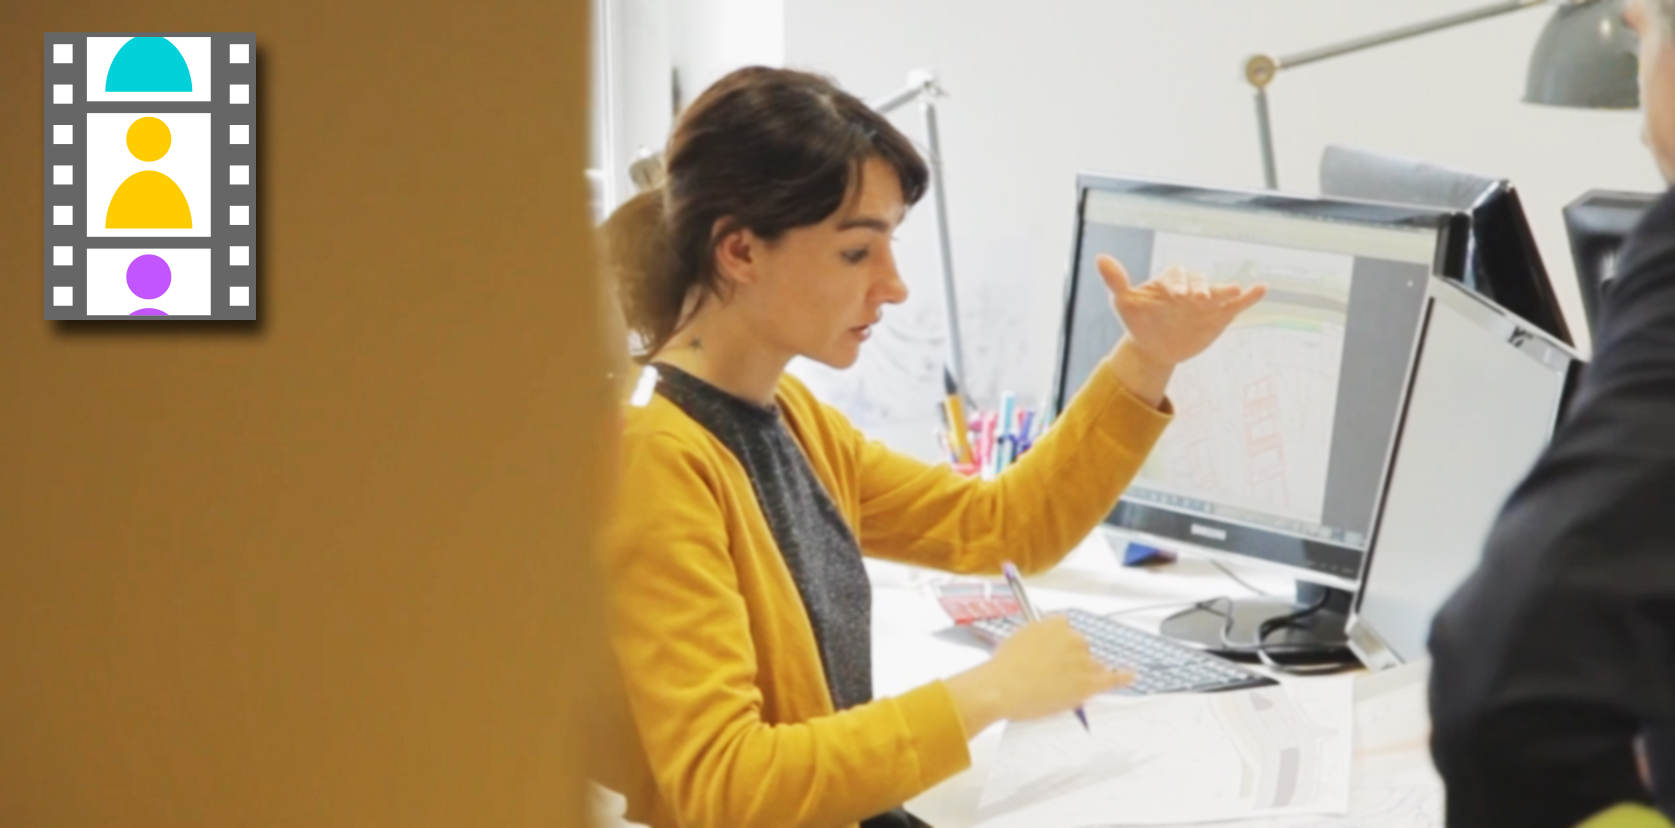
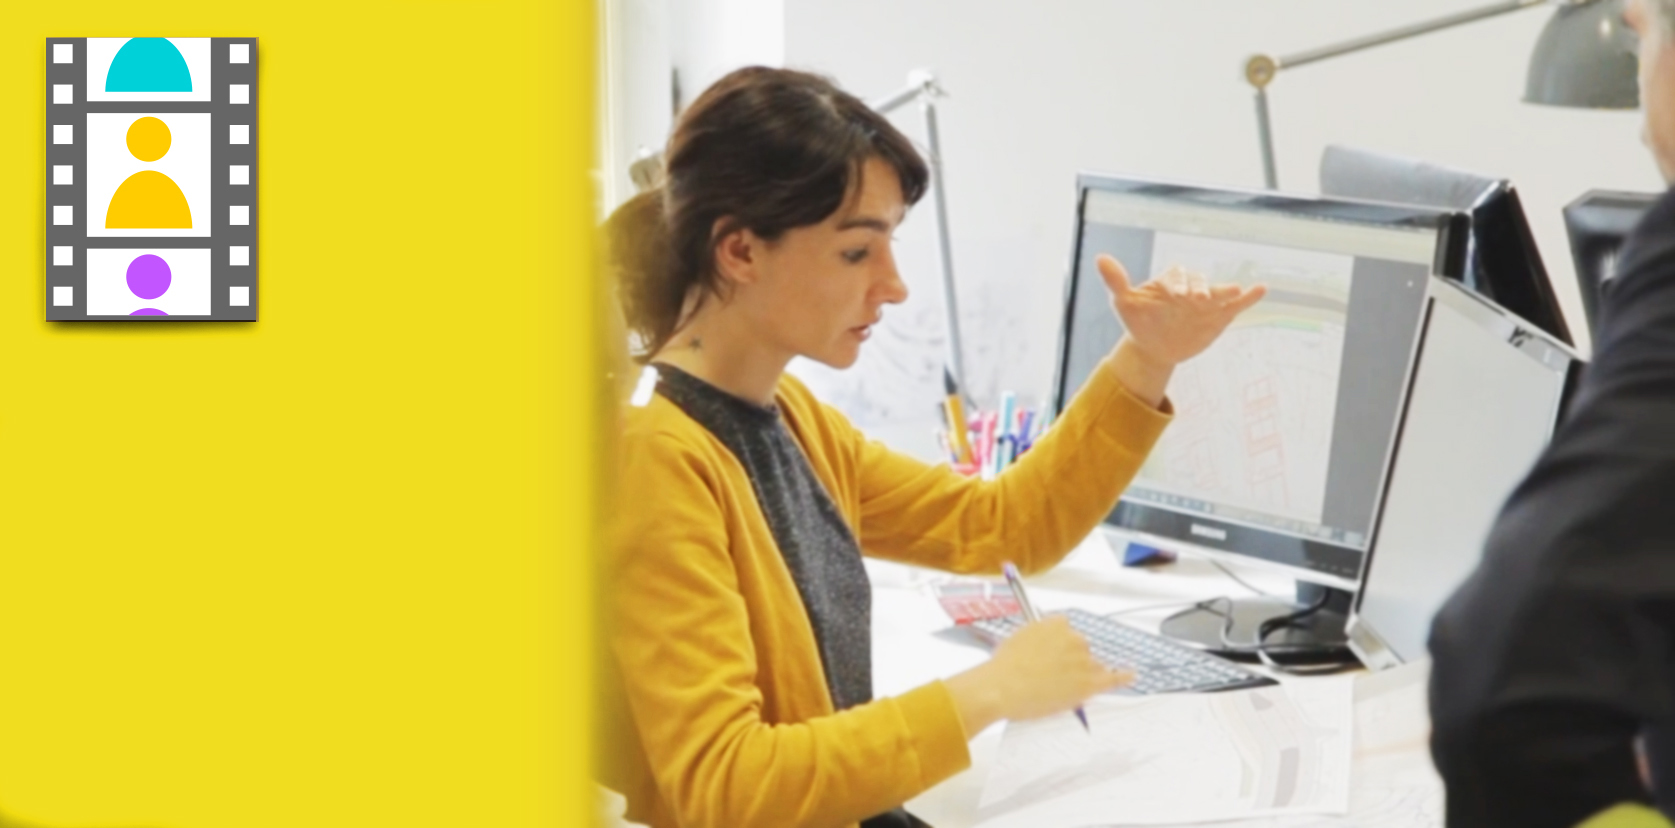
entite.php

diff --git a/style-GP.css b/style-GP.css
@@ -539,24 +539,20 @@ filter:progid:DXImageTransform.Microsoft.Shadow(color= #cfcfcf, Direction=180, S
 	width: auto;
 	float: left;
 }
-#icone_pellicule
-{
-	margin-left : 80px;
-	width: 100px;
-}
-.cellule_pellicule
-{
-	padding-left: 10px;
-	padding-right: 20px;
+.visuel_icone_pellicule {
 	margin-top: 0px;
-	border: 2px none #903;
-	width: 250px;
-	float: right;
+	width: 100%;
+	float: left;
+	clear:right
 	height: 120px;
 	display: inline-block;
 	vertical-align: baseline;
-	text-align: right
+	text-align: left;
+	margin-bottom: 20px;
+
 }
+#visuel_film {float: left; display:inline-block; margin-right: 20px;}
+
 #lien_organigramme, #lien_trombino
 {
 	vertical-align: bottom;

diff --git a/entite.php b/entite.php
@@ -153,19 +153,19 @@ get_header(); ?>
 						<a href="">
 						</a>
 			</div>
-			<div  id="cellule_entite_droite" class="cellule_entite">
-						<div id="corps_cellule_entite" class="interligne_-3 T-5">
-									<div id="" class="alignright">
-												<img src="<?php echo get_stylesheet_directory_uri(); ?>/img/images/mapCnous.jpg" width="400px" style="border-radius:3px"/>
-									</div>
-									<div id="" class="T-4 cellule_pellicule">
-												Map,<br/>
+			<div  id="cellule_entite_droite" class="cellule_entite">			
+ <div class="visuel_icone_pellicule">
+ <div id="visuel_film"> <img src="<?php echo get_stylesheet_directory_uri(); ?>/img/images/mapCnous.jpg" width="400px" style="border-radius:5px"/></div>
+
+									
+									 <span class="T-4 interligne_-2">			Map,<br/>
 												c'est nous,<br/>
 												pour vous.<br/>
 												Venez-le découvrir <br/>
 												en image...
-									</div>
-									Fuga. Tis volumenis idestrum, omnisi tecto volorro rersper istrum que iliberion natio. Et ellat quid mod quibusame expliqu untioreptasi cone nus, exceris vid quaest et ma voluptatibus am, ut experum aut eaquam landigent.
+									</span></div>
+						<div id="corps_cellule_entite" class="interligne_-3 T-5">
+													Fuga. Tis volumenis idestrum, omnisi tecto volorro rersper istrum que iliberion natio. Et ellat quid mod quibusame expliqu untioreptasi cone nus, exceris vid quaest et ma voluptatibus am, ut experum aut eaquam landigent.
 									Ta nihillate ipsae corestis re molut que eum quiatendis illa delesti am rem. Recabor escipitatqui que volupta cusandu ntiatem exera volore occatio nsequi in re velist, ute nonsequi ipsam re, adi beriam harci sus doluptiam, cusciis sequiam qui corum fugiatu risquas pelest, untia nit vellacc uptatis ute pora nusam harciumquide dolest vid et laudi utatur, tet, nonem rerepedit qui odiciis alit, omnimo voluptur? Bus porro mi, qui doluptium inci qui sit, conseque quos nonsequ aspicium ad ea cor millab invenis as quiduntusa inctent.
 									Us voluptati odignim inienite percit, seria nonsendenet veligenditae corae pres doluptatet liquia nam expero exped quid quae et exerovid estiur, sinimus molore perovitia dollab il est ute velliti ut exceror essitatem sequaecepre prerfer rovides volora pliae nost audiatiis mi, sequo totasperum quae. Evenis quiamus dent.
 						</div>
